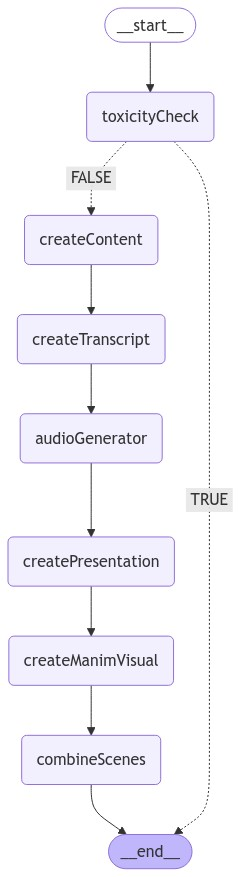
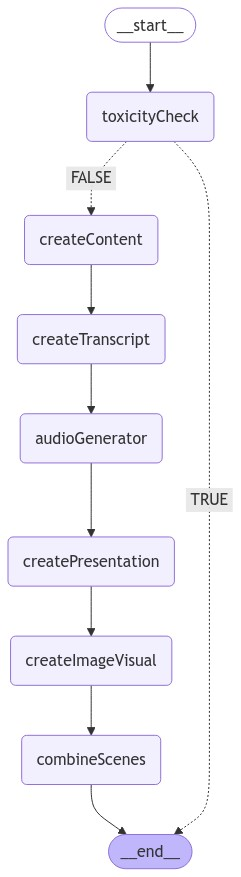
generation of images

Changed region(s): [[0.0871, 0.7389, 0.668, 0.7697], [0.6971, 0.7081, 0.7261, 0.8005], [0.029, 0.7081, 0.0581, 0.8005]]

diff --git a/learn-anything/src/server/nodes/visualGenerator/index.ts b/learn-anything/src/server/nodes/visualGenerator/index.ts
@@ -1,52 +1,77 @@
+import fs from "fs";
+import path from "path";
+import {OpenAI} from "openai"; // Assuming OpenAI is your image generation source
+import dotenv from "dotenv";
+import { DallEAPIWrapper } from "@langchain/openai";
 import { GraphStateType } from "src/server/state/index";
-import { OpenAI } from "@langchain/openai";
-import fs from 'fs';
+dotenv.config();
 
-export async function createManimVisual(state: GraphStateType): Promise<Partial<GraphStateType>> {
-  const { scenes } = state;
-  // for each scene, generate visual content with manim
-  Promise.all(scenes.map(async (scene, index) => {
-    // generate visual content for the scene
-    console.log(`Generating manim video for scene ${index}`);
-  }));
+const openai = new OpenAI();
+
+// Define the output directory for images
+const imageOutputDirectory = path.resolve("./generated_images");
+
+// Ensure the image output directory exists
+if (!fs.existsSync(imageOutputDirectory)) {
+  fs.mkdirSync(imageOutputDirectory, { recursive: true });
 }
 
-// save the image to disk
-function saveImage(image_url: string): Promise<void> {
-  return new Promise((resolve, reject) => {
-    fs.writeFile("path/to/image", image_url, (err) => {
-      if (err) {
-        reject(err);
-      } else {
-        resolve();
-      }
-    });
-  });
-}
-
-// define the generate image function
-async function generateImage(scene: string, index: number): Promise<{imagePath: string}> {
-  // generate image for the scene
-  // return the image path
+async function saveImage({ prompt, index }: { prompt: string, index: number }) {
   console.log(`Generating image for scene ${index}`);
-  
-  return {
-    imagePath: "path/to/image",
+
+  try {
+    // Generate image using the OpenAI API
+    const response = await openai.images.generate({
+      model: "dall-e-3",    // Model for generating images
+      prompt: prompt,       // Prompt for the image
+      n: 1,                 // Generate one image
+      size: "1024x1024",     // Image size
+    });
+
+    // Get the URL of the generated image
+    const imageUrl = response.data[0]?.url;
+
+    // Fetch the image data from the URL
+    if (!imageUrl) {
+      throw new Error(`Image URL is undefined for scene ${index}`);
+    }
+    const imageResponse = await fetch(imageUrl);
+    const imageBuffer = await imageResponse.arrayBuffer();
+
+    // Define the path to save the image
+    const imagePath = path.join(imageOutputDirectory, `scene_${index}.png`);
+
+    // Write the image buffer to a file in the directory
+    await fs.promises.writeFile(imagePath, Buffer.from(imageBuffer));
+
+    console.log(`Image content generated and saved for scene ${index} at ${imagePath}`);
+    return {
+      imagePath,
+    };
+  } catch (error) {
+    console.error(`Failed to generate image for scene ${index}: ${error}`);
+    throw error;
   }
 }
 
+// This key has a limit of only 7 images per minute
 export async function imageGenerator(state: GraphStateType): Promise<Partial<GraphStateType>> {
   const {scenes} = state;
+  // remove any scenes that is higher than 7 so 7 scenes max
+  const maxLimitScenes = scenes.slice(0, 7);
   // for each scene, generate images in parallel
   // should probably modify the scenes to update with the image file path
-  const updatedScenes = await Promise.all(scenes.map(async (scene, index) => {
+  const updatedScenes = await Promise.all(maxLimitScenes.map(async (scene, index) => {
+    // make sure the scene has a graphic description
+    if (!scene.graphicDescription) {
+      throw new Error(`Scene ${index} does not have a graphic description`);
+    }
     // generate image for the scene
-    console.log(`Generating image for scene ${index}`);
-    const { imagePath } = await generateImage(scene.content, index).resolve();
+    const { imagePath } = await saveImage({ prompt: scene.graphicDescription, index });
 
     return {
       ...scene,
-      path: imagePath
+      imagePath: imagePath
     };
   }));
 

diff --git a/learn-anything/src/server/main.ts b/learn-anything/src/server/main.ts
@@ -8,7 +8,7 @@ import { createContent } from "./nodes/contentCreator";
 import { createTranscript } from "./nodes/transcriptCreator";
 import { audioGenerator } from "./nodes/audioGenerator";
 import { createPresentation } from "./nodes/presentationGenerator";
-import { createManimVisual } from "./nodes/visualGenerator";
+import { imageGenerator } from "./nodes/visualGenerator";
 import { combineScenes } from "./nodes/combineScenes";
 
 
@@ -35,7 +35,7 @@ const workflow = new StateGraph(GraphState)
     .addNode("createTranscript", createTranscript)
     .addNode("audioGenerator", audioGenerator)
     .addNode("createPresentation", createPresentation)
-    .addNode("createManimVisual", createManimVisual)
+    .addNode("createImageVisual", imageGenerator)
     .addNode("combineScenes", combineScenes)
 
 workflow.addEdge(START, "toxicityCheck")
@@ -47,8 +47,8 @@ workflow.addEdge(START, "toxicityCheck")
     .addEdge("createContent", "createTranscript")
     .addEdge("createTranscript", "audioGenerator")
     .addEdge("audioGenerator", "createPresentation")
-    .addEdge("createPresentation", "createManimVisual")
-    .addEdge("createManimVisual", "combineScenes")
+    .addEdge("createPresentation", "createImageVisual")
+    .addEdge("createImageVisual", "combineScenes")
     .addEdge("combineScenes", END)
 
 

diff --git a/learn-anything/src/server/nodes/transcriptCreator/index.ts b/learn-anything/src/server/nodes/transcriptCreator/index.ts
@@ -7,7 +7,7 @@ const transcriptPromptTemplate = ChatPromptTemplate.fromMessages<{content: strin
     [
       "system",
       // create a prompt for the transcript creator, that creates scenes and formats as ## SCENE <scene number>
-        "You are a transcript creator. Split each scene by starting a new line with '## SCENE <scene number>' Create only 3 scenes",
+        "You are a transcript creator. Split each scene by starting a new line with '## SCENE <scene number>' Create only 3 scenes. Remmeber only 3 SCENES",
     ],
     ["user", "Content to split:{content}"],
   ]);
@@ -29,7 +29,8 @@ function splitContent(content: string): SceneDetails[] {
   // This is a placeholder implementation
   return content.split('\n\n').map((sceneContent, index) => ({
     content: sceneContent,
-    path: undefined,
+    audioPath: undefined,
+    imagePath: undefined,
     length: undefined,
     graphicDescription: undefined,
     manimCode: undefined

diff --git a/learn-anything/src/server/state/index.ts b/learn-anything/src/server/state/index.ts
@@ -5,7 +5,8 @@ import { BaseMessage } from "@langchain/core/messages";
 // very bad way of doing this but it works for now
 export type SceneDetails = {
   content: string;
-  path: string | undefined;
+  audioPath: string | undefined;
+  imagePath: string | undefined;
   length: number | undefined;
   graphicDescription: string | undefined;
   manimCode: string | undefined;

diff --git a/learn-anything/src/server/nodes/audioGenerator/index.ts b/learn-anything/src/server/nodes/audioGenerator/index.ts
@@ -49,7 +49,7 @@ export async function audioGenerator(state: GraphStateType): Promise<Partial<Gra
       const { audioPath, audioLength } = await generateAudio({ sceneText: scene.content, index });
       return {
         ...scene,
-        path: audioPath,
+        audioPath: audioPath,
         length: audioLength
       };
     })
